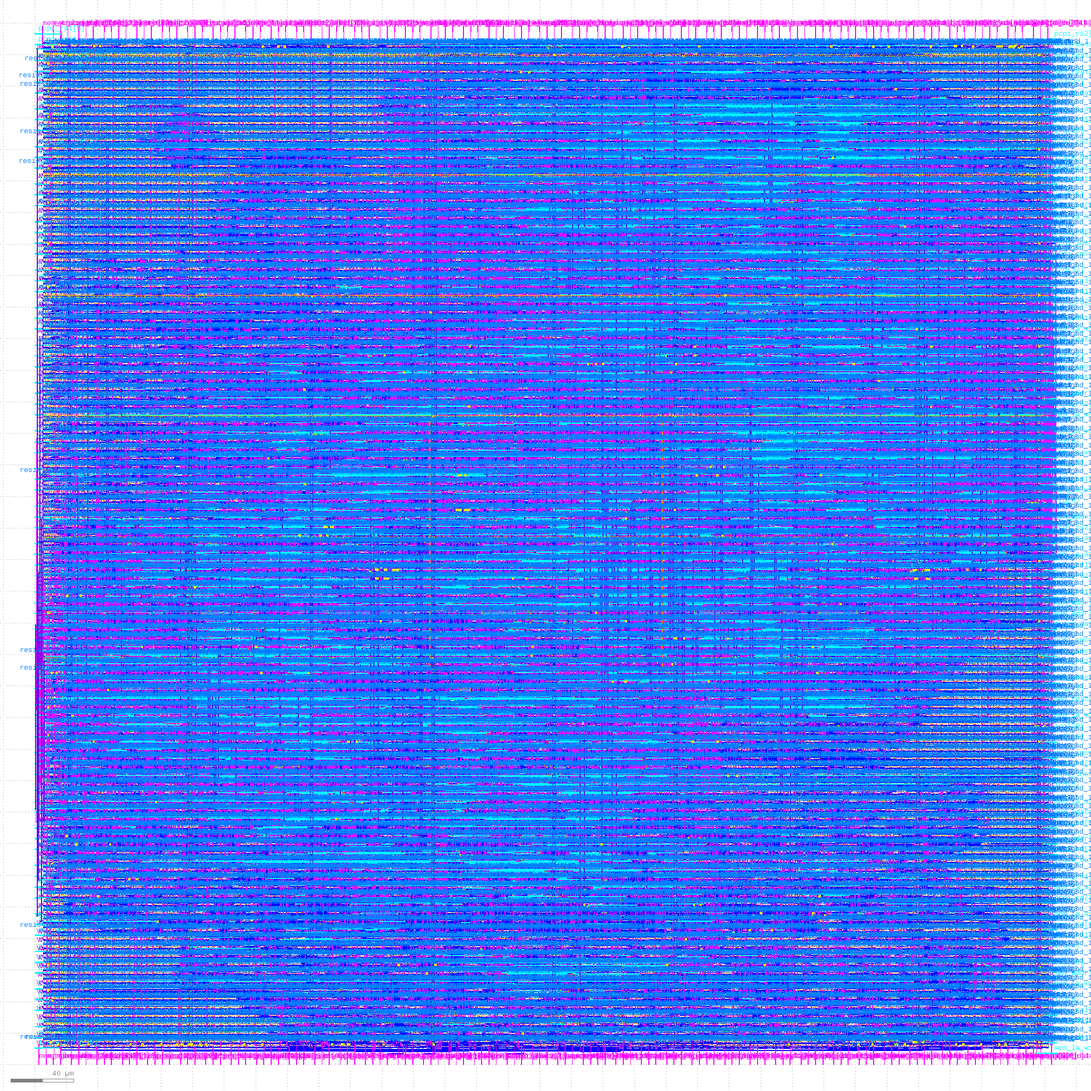
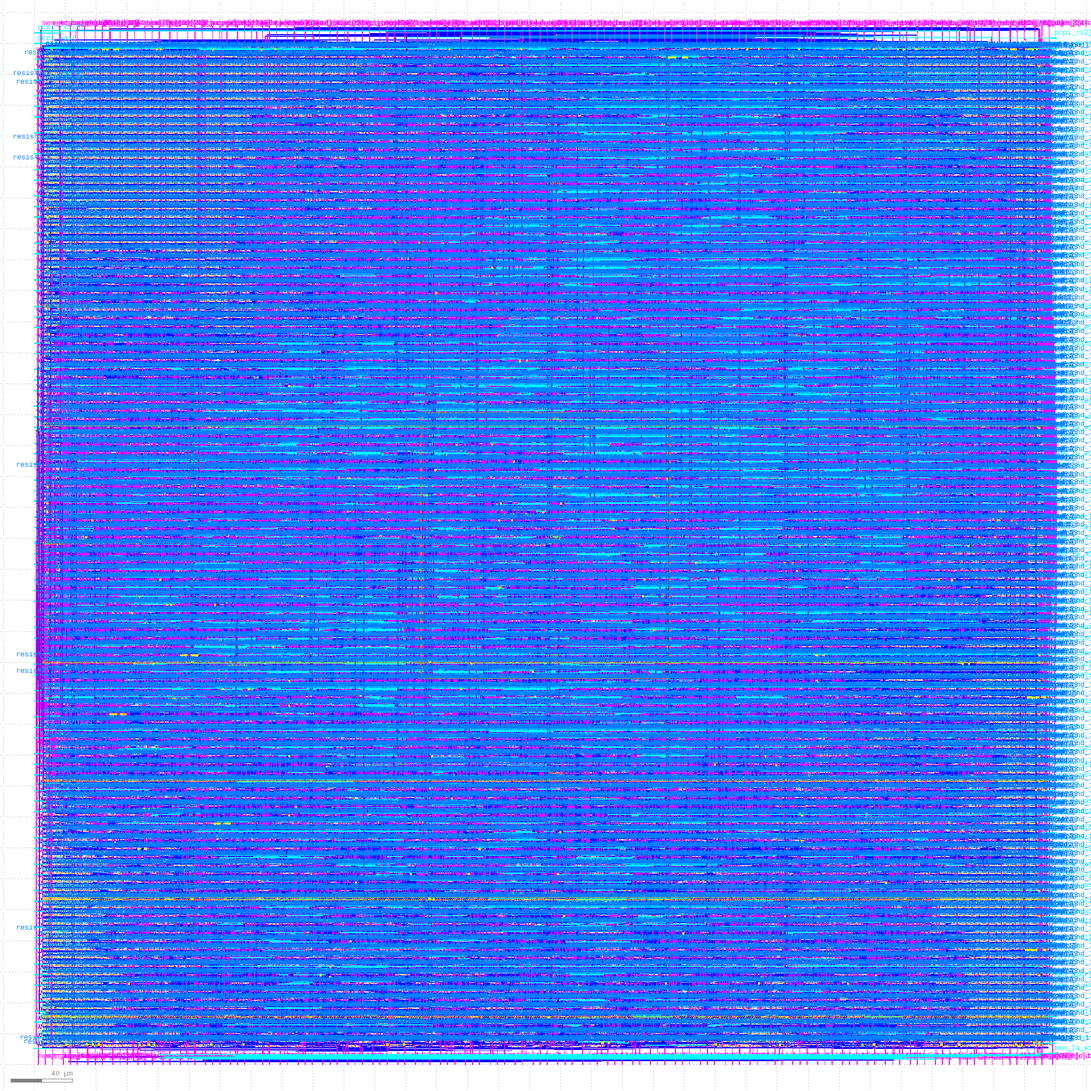
README update

diff --git a/README.md b/README.md
@@ -270,7 +270,7 @@ Magic basic controls are as follows:
 
 ![MagicFloorplanTopView](https://github.com/rafaelfrgc/Sky130-OpenLANE-DesignWorkshop/blob/main/Day2/Images/MagicFloorplanTopView.png)
 
-The standard cells are not placement during this stage, but they can be seen in the black boxes in the bottom left corner. It is also possible to see the decoupling capacitors:
+The standard cells are not placed during this stage, but they can be seen in the black boxes in the bottom left corner. It is also possible to see the decoupling capacitors:
 
 ![MagicFloorplanDecapView](https://github.com/rafaelfrgc/Sky130-OpenLANE-DesignWorkshop/blob/main/Day2/Images/MagicFloorplanDecapView.png)
 
@@ -652,6 +652,13 @@ run_floorplan
 run_placement
 ```
 
+We can see the design after the re-run floorplan:
+
+![picorv32aFloorplan.png](https://github.com/rafaelfrgc/Sky130-OpenLANE-DesignWorkshop/blob/main/Day4/Images/picorv32aFloorplan.png)
+
+
+And the results of the re-run:
+
 ![FlowReRun.png](https://github.com/rafaelfrgc/Sky130-OpenLANE-DesignWorkshop/blob/main/Day4/Images/FlowReRun.png)
 
 Now, to view the results in magic, from the folder /results/placement,
@@ -659,6 +666,7 @@ Now, to view the results in magic, from the folder /results/placement,
 ```
 magic -T /home/rafael_linux/OpenLane/pdks/sky130A/libs.tech/magic/sky130A.tech lef read ../../tmp/merged.max.lef def read picorv32a.def &
 ```
+
 ![MagicAfterPlacement.png](https://github.com/rafaelfrgc/Sky130-OpenLANE-DesignWorkshop/blob/main/Day4/Images/MagicAfterPlacement.png)
 
 Using the cell manager tool, we can see the new custom cell after placement:
@@ -729,7 +737,7 @@ Also, by changing the SYNTH_SIZING, SYNTH_STRATEGY, cells with high fanout and s
 
 ![SlackOptimized.png](https://github.com/rafaelfrgc/Sky130-OpenLANE-DesignWorkshop/blob/main/Day4/Images/SlackOptimized.png)
 
-Next, we run clock tree synthesis using the command:
+Next, we run clock tree synthesis using the commands:
 
 ```
 run_cts
@@ -738,6 +746,9 @@ With the output:
 
 ![CTS.png](https://github.com/rafaelfrgc/Sky130-OpenLANE-DesignWorkshop/blob/main/Day4/Images/CTS.png)
 
+A screenshot of the design after CTS is:
+
+![picorv32aCTS.png](https://github.com/rafaelfrgc/Sky130-OpenLANE-DesignWorkshop/blob/main/Day4/Images/picorv32aCTS.png)
 
 Then, we check for the slack again running Post-CTS STA in OpenROAD using the commands:
 
@@ -772,8 +783,27 @@ While Lee's algorithm guarantees an optimal solution, it can be slow and require
 Now, having ran the routing, we can use the following commando to run power distribution network (PDN):
 
 ```
+init_floorplan
+place_io
+global_placement_or
+tap_decap_or
+run_placement
+run_cts
+echo $::env(CURRENT_DEF)
+---
 gen_pdn
 ```
+
+With 
+
+```
+echo $::env(CURRENT_DEF)
+```
+
+Being used to check the current stage of flow. We must be in the CTS stage to run PDN.
+
+![SeeWhereWeAreForPDN.png](https://github.com/rafaelfrgc/Sky130-OpenLANE-DesignWorkshop/blob/main/Day4/Images/SeeWhereWeAreForPDN.png)
+
 
 This phase takes the design_cts.def file as input and generates the grid and straps for the Vdd and ground signals. These are placed around the standard cells, which are designed such that their height is a multiple of the space between the Vdd and ground rails. In this design, the pitch is 2.72.
 
@@ -782,6 +812,10 @@ Power enters the chip through power pads, one for Vdd and one for Gnd. From thes
 The power is then supplied from the straps to the standard cells by connecting the straps to the rails of the standard cells. If macros are present, then the straps attach to the rings of the macros via macro pads, and the PDN for the macro is pre-done.
 
 In this design, straps are at metal layers 4 and 5, while standard cell rails are at metal layer 1. Vias connect across layers as required.
+
+As we can see, PDN was successfull:
+
+![PDNSuccess.png](https://github.com/rafaelfrgc/Sky130-OpenLANE-DesignWorkshop/blob/main/Day4/Images/PDNSuccess.png)
 
 Then, routing is the next step, as explained in the beginning sections, the TritonRoute tool is used for routing. Some of its features are:
 
@@ -797,6 +831,18 @@ To run routing, we use the command:
 run_routing
 ```
 The options for routing can be set in the config.tcl file. Also, optimisations in routing can be done by specifying the routing strategy. There are 5: 0, 1, 2, 3, 4 and 14. There is a trade-off between the optimised route and the runtime for routing. For the default setting picorv32a takes approximately 30 minutes according to the current version of TritonRoute.
+
+As we can see, routing was successfull with no DRC violations:
+
+![DetailedRoutingNoDRCViolations.png](https://github.com/rafaelfrgc/Sky130-OpenLANE-DesignWorkshop/blob/main/Day4/Images/DetailedRoutingNoDRCViolations.png)
+
+
+![RoutingSuccess.png](https://github.com/rafaelfrgc/Sky130-OpenLANE-DesignWorkshop/blob/main/Day4/Images/RoutingSuccess.png)
+
+And the final result:
+
+![picorv32aRouting.png](https://github.com/rafaelfrgc/Sky130-OpenLANE-DesignWorkshop/blob/main/Day4/Images/picorv32aRouting.png)
+
 
 ## SPEF Extraction and GDSII Generation
 
